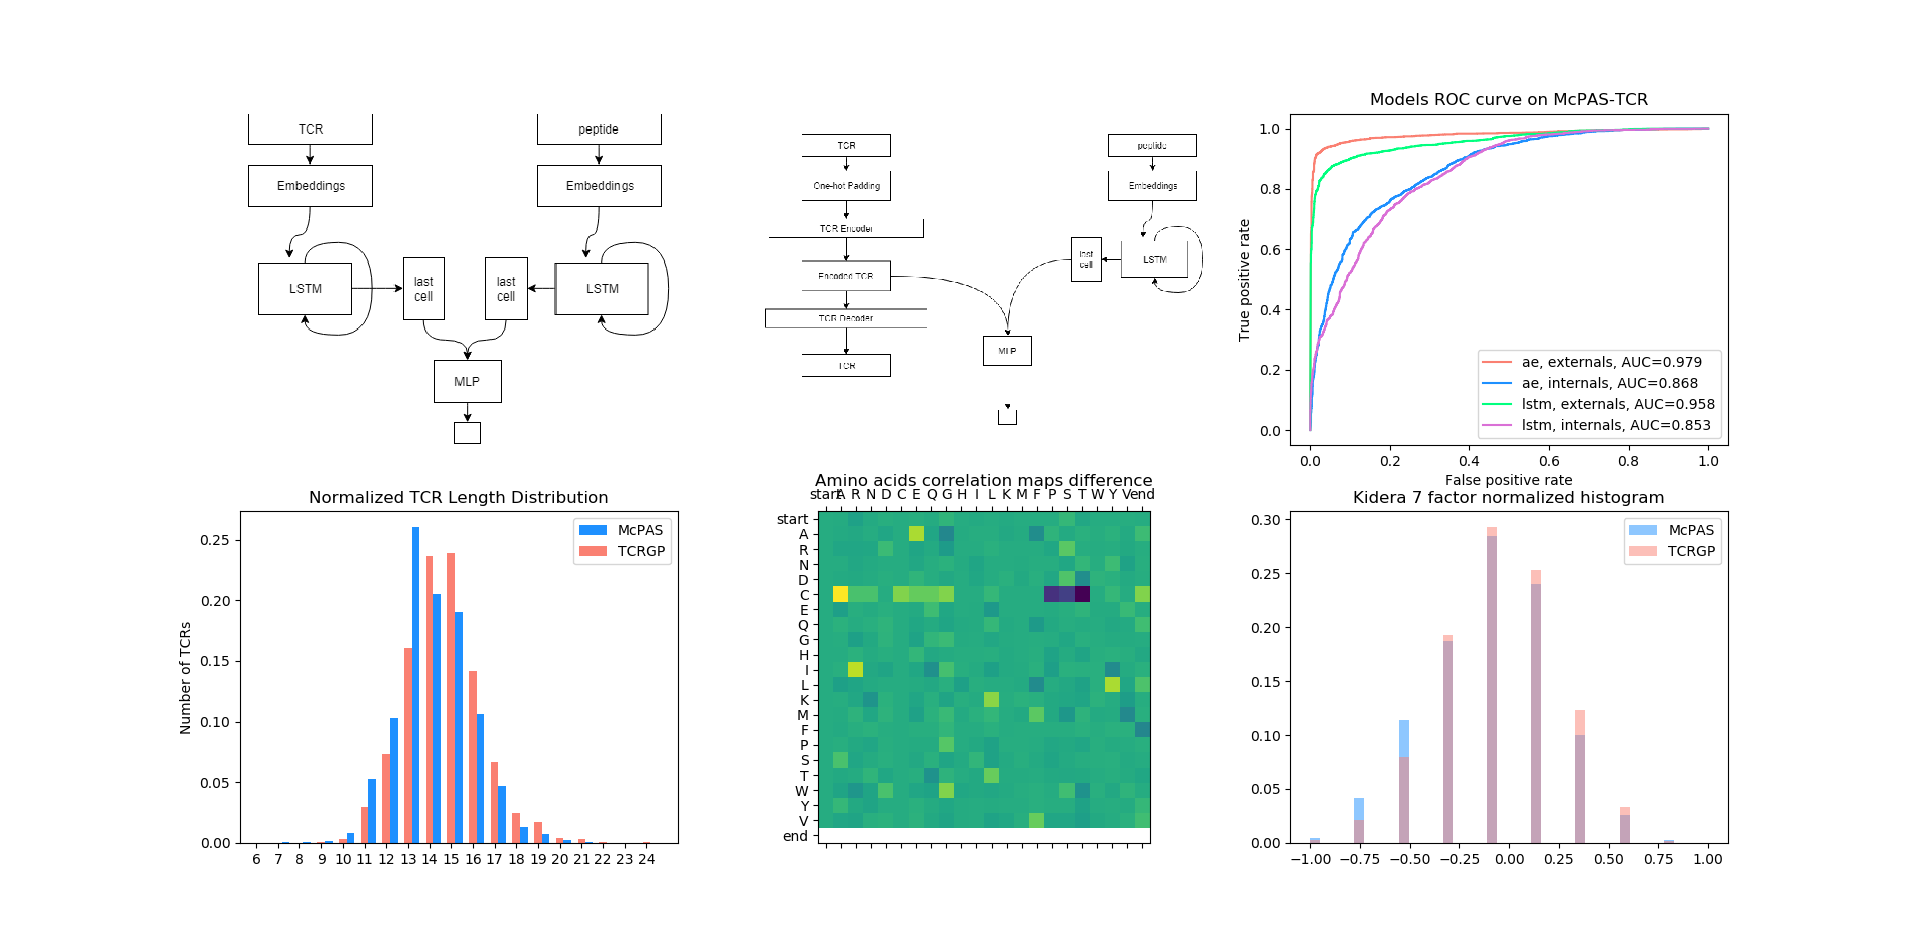
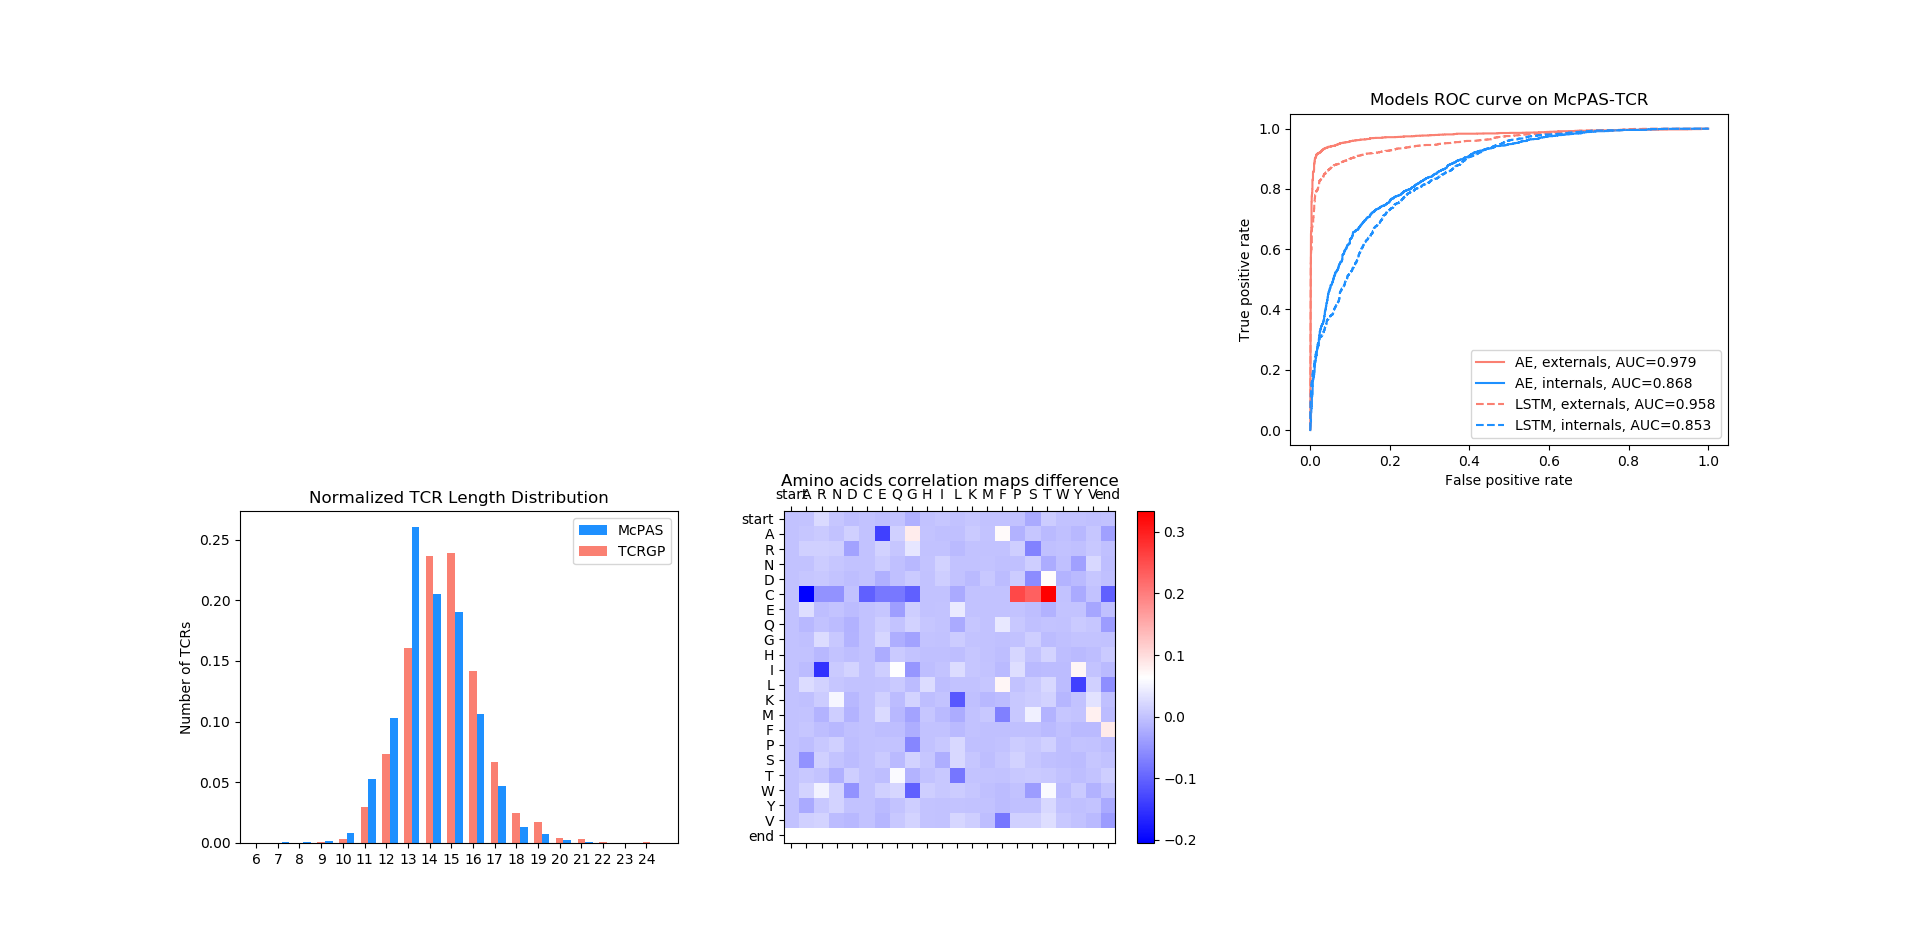
Update figure1 style

diff --git a/plot_figure1.py b/plot_figure1.py
@@ -97,12 +97,12 @@ def amino_corr_map_comp(ax, data1, data2, c, title):
         print(P2)
     # P = np.log(P1 / P2)
     P = P1 - P2
-    ax.matshow(P)
+    mat = ax.matshow(-P, cmap='bwr')
     ax.set_xticks(range(22))
     ax.set_xticklabels(amino_acids)
     ax.set_yticks(range(22))
     ax.set_yticklabels(amino_acids)
-    # plt.colorbar()
+    plt.colorbar(mat)
     ax.set_title(title)
 
 
@@ -208,11 +208,11 @@ def model_graph(ax, image):
     ax.axis('off')
 
 
-def plot_roc(ax, title, files, labels, colors):
-    for file, label, color in zip(files, labels, colors):
+def plot_roc(ax, title, files, labels, colors, lns):
+    for file, label, color, ln in zip(files, labels, colors, lns):
         roc = np.load(file)
         ax.plot(roc['fpr'], roc['tpr'], label=label + ', AUC=' + str(format(roc['auc'].item(), '.3f')),
-                 color=color)
+                 color=color, linestyle=ln)
     plt.title(title)
     ax.set_xlabel('False positive rate')
     ax.set_ylabel('True positive rate')
@@ -222,24 +222,26 @@ def plot_roc(ax, title, files, labels, colors):
 def main():
     fig = plt.figure(1)
     ax = fig.add_subplot(231)
-    model_graph(ax, 'lstm_draft.png')
+    # model_graph(ax, 'lstm_draft.png')
     ax.axis('off')
     ax = fig.add_subplot(232)
     ax.axis('off')
-    model_graph(ax, 'autoencoder_draft.png')
+    # model_graph(ax, 'autoencoder_draft.png')
     ax = fig.add_subplot(233)
     plot_roc(ax, 'Models ROC curve on McPAS-TCR',
              ['ae_roc_w_gp2.npz', 'ae_roc_w2.npz', 'lstm_roc_w_gp2.npz', 'lstm_roc_w2.npz'],
-             ['ae, externals', 'ae, internals', 'lstm, externals', 'lstm, internals'],
-             ['salmon', 'dodgerblue', 'springgreen', 'orchid'])
+             ['AE, externals', 'AE, internals', 'LSTM, externals', 'LSTM, internals'],
+             ['salmon', 'dodgerblue', 'salmon', 'dodgerblue'],
+             ['-', '-', '--', '--'])
     ax = fig.add_subplot(234)
     tcr_length_dist_comp(ax, w, nt, 'Normalized TCR Length Distribution', normalize=True)
     # ax = fig.add_subplot(235, projection='3d')
     # amino_corr_map_comp_3d(ax, w, nt, 'tcr', 'Amino acids correlation maps difference')
-    # ax = fig.add_subplot(235)
-    # amino_corr_map_comp(ax, w, nt, 'tcr', 'Amino acids correlation maps difference')
+    ax = fig.add_subplot(235)
+    amino_corr_map_comp(ax, w, nt, 'tcr', 'Amino acids correlation maps difference')
     ax = fig.add_subplot(236)
-    kidera_hist7(ax, w, nt)
+    ax.axis('off')
+    # kidera_hist7(ax, w, nt)
     plt.show()
     plt.tight_layout()
     plt.show()
